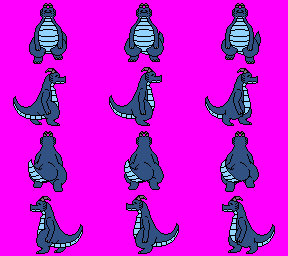
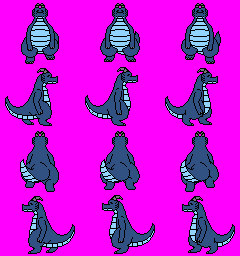
Lowered the width of Xander's bounding box.

Changed region(s): [[0.35, 0.0, 0.6708, 1.0], [0.0, 0.0, 0.3208, 1.0], [0.6708, 0.0, 0.9917, 1.0]]

diff --git a/src/field/actors/companion.cpp b/src/field/actors/companion.cpp
@@ -51,8 +51,8 @@ void CompanionActor::setupAtlas(CompanionID id) {
     case CompanionID::XANDER: {
       sprite_group = "xander_actor";
 
-      bounding_box.scale = {96, 64};
-      bounding_box.offset = {-48, -60};
+      bounding_box.scale = {80, 64};
+      bounding_box.offset = {-40, -60};
       collis_box = {24, 32};
       collis_box.offset = {-12, -28};
       break;
